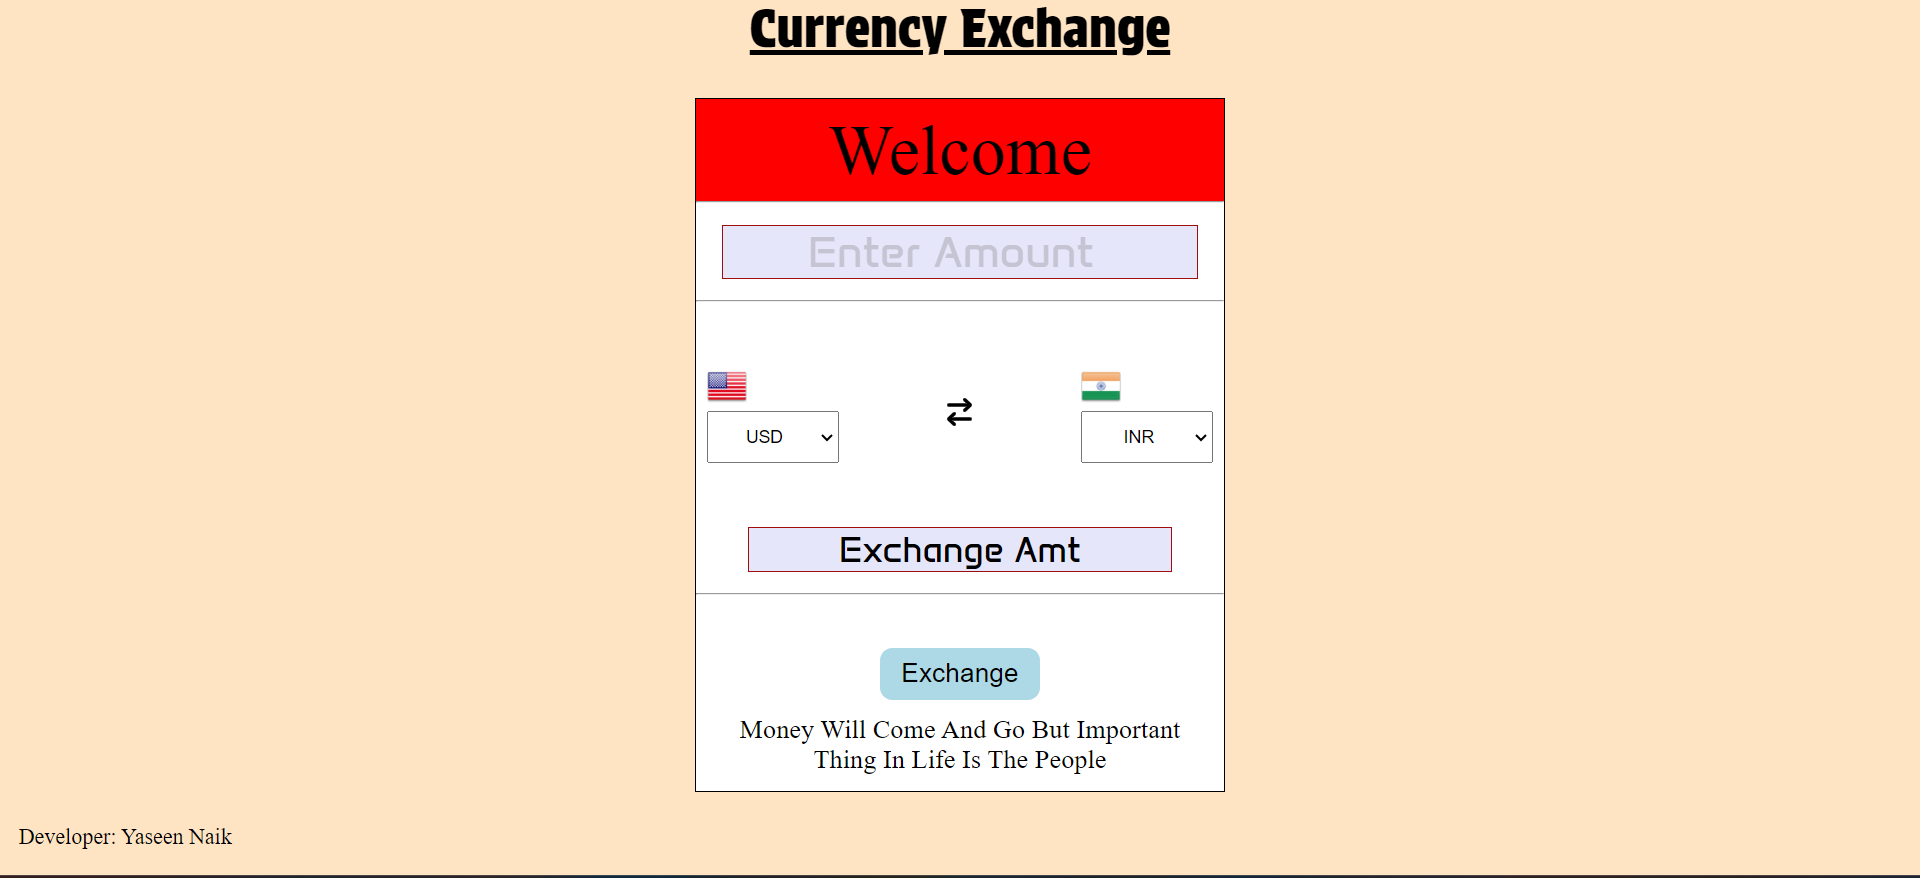
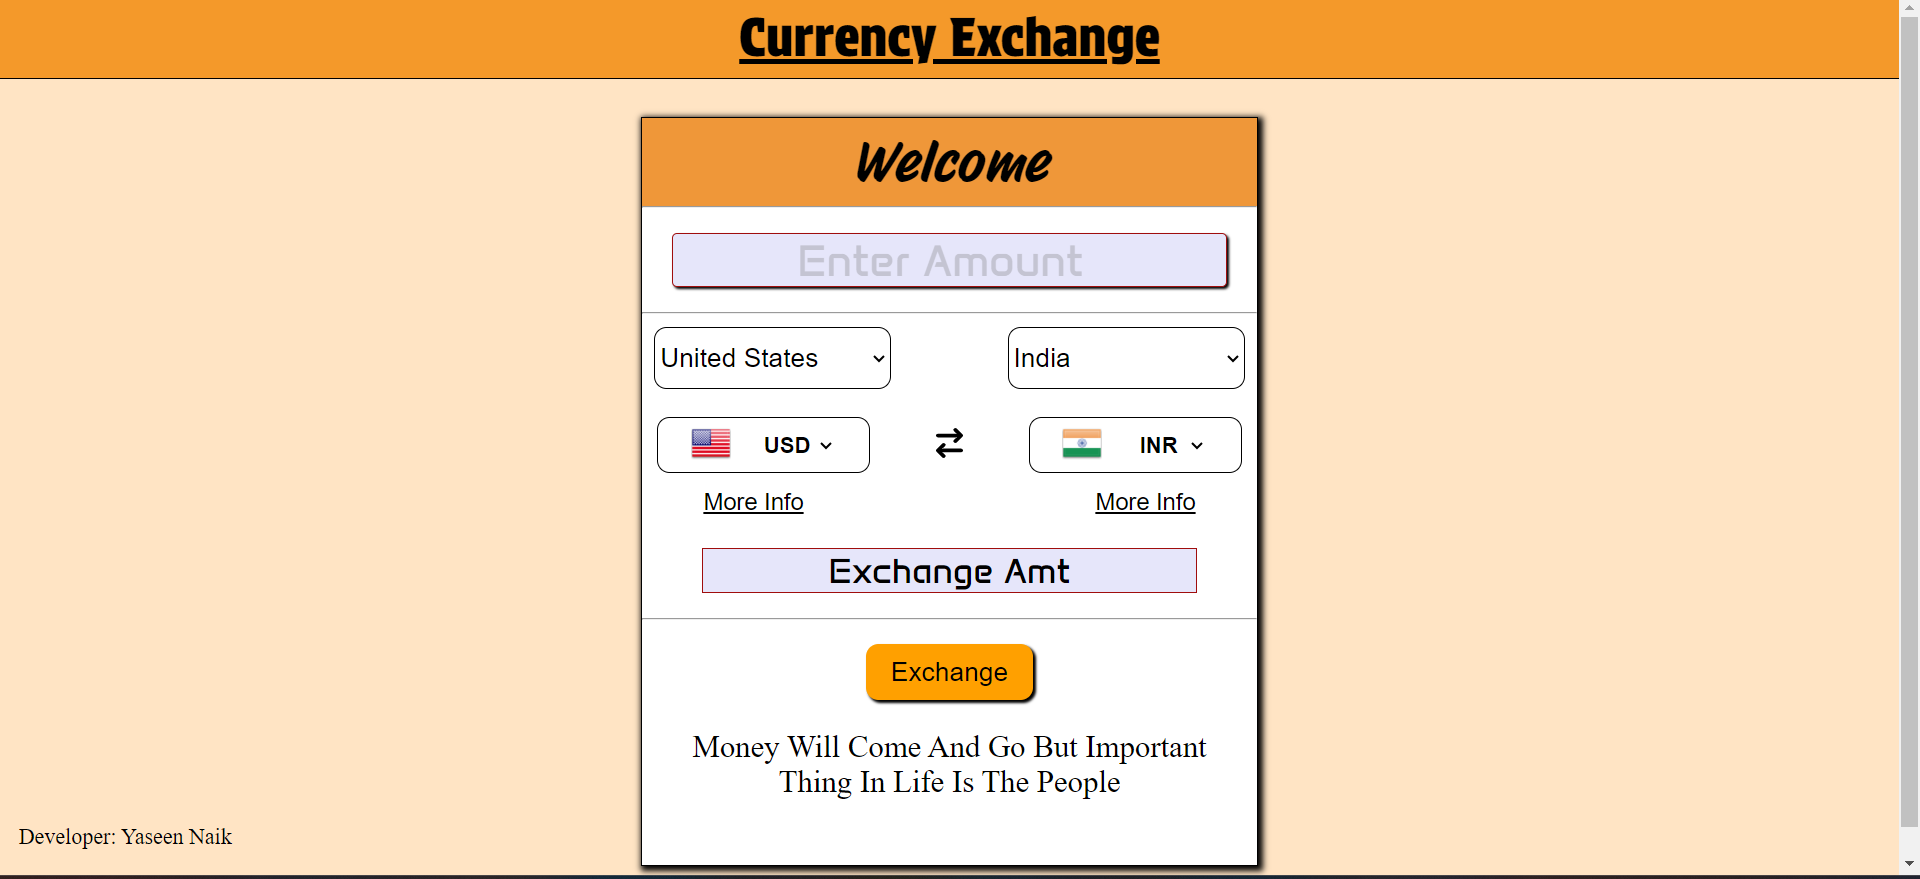
feat:Added option to search using country name
fix:content overflowing on lower screen sizes

Changed region(s): [[0.0, 0.0, 1.0, 1.0], [0.4688, 0.492, 0.5, 0.5228]]

diff --git a/Js/script.js b/Js/script.js
@@ -1,8 +1,7 @@
 let base_url =
   "https://cdn.jsdelivr.net/gh/fawazahmed0/currency-api@1/latest/currencies";
 let select = document.querySelectorAll(".options");
-let flag1 = document.querySelector(".inputflag");
-let flag2 = document.querySelector(".outputflag");
+let flag = document.querySelectorAll(".flag");
 let inputvalue = document.querySelector(".inputvalue");
 let output = document.querySelector(".outputAmt");
 let btn = document.querySelector(".btn");
@@ -10,11 +9,47 @@ let info = document.querySelector(".info");
 let infobtn = document.querySelectorAll(".infobtn");
 let quote = document.querySelector(".quote");
 let more_info = document.querySelectorAll(".more_info");
+let srch_by_country = document.querySelectorAll(".country");
+srch_by_country.forEach((country) => {
+  data.forEach((info) => {
+    newoption = document.createElement("option");
+    newoption.innerText = info.country;
+    newoption.value = info.country;
+    country.append(newoption);
+    if (country.name === "to-C" && newoption.innerText == "India") {
+      newoption.selected = "selected";
+    } else if (
+      country.name === "from-C" &&
+      newoption.innerText == "United States"
+    ) {
+      newoption.selected = "selected";
+    }
+  });
+});
+
 function change_info(index) {
   more_info[0].innerText = data[index].country;
   more_info[1].innerText = data[index].name;
   more_info[2].innerText = data[index].countryCode;
 }
+
+function chooseCurrencyCode(val){
+
+    let index = select[val].selectedIndex;
+    flag[val].src = data[index].flag;
+    country=srch_by_country[val][index];
+    country.selected="selected";
+    change_info(index);
+}
+function chooseCountryName(val){
+
+  let index = srch_by_country[val].selectedIndex;
+  flag[val].src = data[index].flag;
+  country=select[val][index];
+  country.selected="selected";
+  change_info(index);
+}
+
 for (const options of select) {
   data.forEach((element) => {
     {
@@ -30,35 +65,40 @@ for (const options of select) {
     }
   });
 }
-
 select[0].addEventListener("change", () => {
-  let index = select[0].selectedIndex;
-  flag1.src = data[index].flag;
-  change_info(index);
+chooseCurrencyCode(0);
 });
+
 select[1].addEventListener("change", () => {
-  let index = select[1].selectedIndex;
-  flag2.src = data[index].flag;
-    change_info(index);
+chooseCurrencyCode(1);
 });
+srch_by_country[0].addEventListener("change", () => {
+chooseCountryName(0);
+});
+
+srch_by_country[1].addEventListener("change", () => {
+  chooseCountryName(1);
+});
+
 btn.addEventListener("click", async () => {
   let EnteredAmt = inputvalue.value;
   if (EnteredAmt === "" || EnteredAmt < 1) {
     inputvalue.value = "1";
     EnteredAmt = "1";
   }
-
   let fromcur = select[0].value.toLowerCase();
   let tocur = select[1].value.toLowerCase();
+  let indexfrom = select[0].selectedIndex;
+  let indexto = select[1].selectedIndex;
   url = `${base_url}/${fromcur}/${tocur}.json`;
   output.innerText = "calculating...";
   let response = await fetch(url);
   let data = await response.json();
   let rate = data[tocur];
   let exchangedAmt = (rate * EnteredAmt).toFixed(2);
-  console.log(exchangedAmt);
   output.innerText = `${exchangedAmt} ${tocur.toUpperCase()}`;
 });
+
 infobtn[0].addEventListener("click", () => {
   index = select[0].selectedIndex;
   change_info(index);
@@ -67,15 +107,8 @@ infobtn[0].addEventListener("click", () => {
   country_name = data[index].country;
   country_code = data[index].countryCode;
   currency_name = data[index].name;
-  console.log(
-    "the country code is ",
-    country_code,
-    "name of the currency is ",
-    currency_name,
-    "name of the country is ",
-    country_name
-  );
 });
+
 infobtn[1].addEventListener("click", () => {
   index = select[1].selectedIndex;
   change_info(index);
@@ -85,5 +118,5 @@ infobtn[1].addEventListener("click", () => {
   country_name = data[index].country;
   country_code = data[index].countryCode;
   currency_name = data[index].name;
-  console.log(country_code, currency_name, country_name);
 });
+

diff --git a/index.html b/index.html
@@ -25,11 +25,17 @@
                     class="inputamt">
             </div>
             <hr>
+            <div class="SearchByCountry">
+                <select name="from-C" class="country">
+                </select>
+                <select name="to-C" class="country">
+                </select>
+            </div>
             <div class="exchange">
                 <div class="fromdiv">
                     <div><img
[1 lines of base64/hex data omitted]
-                            class="inputflag flag" alt="Flag"></div>
+                            class="flag" alt="Flag"></div>
                     <select name="from" value="" class="options selectfrom">
                     </select>
                 </div>
@@ -39,7 +45,7 @@
                 <div class="todiv">
                     <div><img
[1 lines of base64/hex data omitted]
-                            class="outputflag flag" alt="Flag"></div>
+                            class="flag" alt="Flag"></div>
                     <select name="to" class="options selectto">
                     </select>
                 </div>
@@ -61,14 +67,12 @@
                     <div class="infoheading">country</div>
                     <div class="infoheading">currency</div>
                     <div class="infoheading">country code</div>
-                    <div class="more_info">united states
-                    </div>
-                    <div class="more_info">united states
-                    </div>
+                    <div class="more_info">united states</div>
+                    <div class="more_info">united states</div>
                     <div class="more_info">US</div>
                 </div>
-                <div>
-                </div>
+            </div>
+        </div>
     </main>
     <footer>
         <p>Developer: Yaseen Naik</p>

diff --git a/Css/style.css b/Css/style.css
@@ -76,7 +76,6 @@ body {
 }
 
 .exchange {
-    margin-top: 5%;
     display: flex;
     justify-content: space-between;
     height: 7%;
@@ -118,7 +117,8 @@ body {
     border: none;
     background: none;
     cursor: pointer;
-    font-size: 2.7vmin
+    font-size: 2.7vmin;
+    text-decoration: underline;
 }
 
 .infobtn:hover {
@@ -128,7 +128,23 @@ body {
 .infobtn:active {
     color: rgb(255, 0, 0);
 }
-
+.SearchByCountry{
+    width:96%;
+    height:10vmin;
+    margin:auto;
+    display: flex;
+    justify-content: space-between;
+    align-items:center;
+}
+.country{
+    outline: none;
+    font-size:3vmin;
+    width:27vmin;
+    height:7vmin;
+    border:1px solid black;
+    border-radius:10px;
+    background:none;
+}
 .btndiv {
     margin-top: 4%;
     text-align: center;
